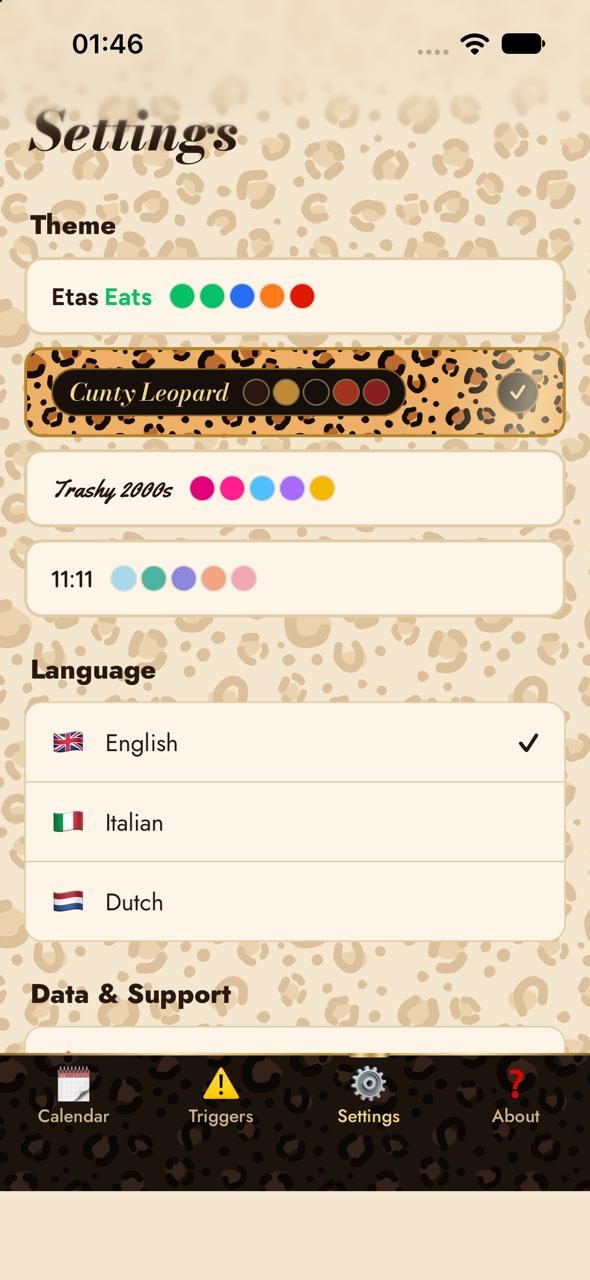
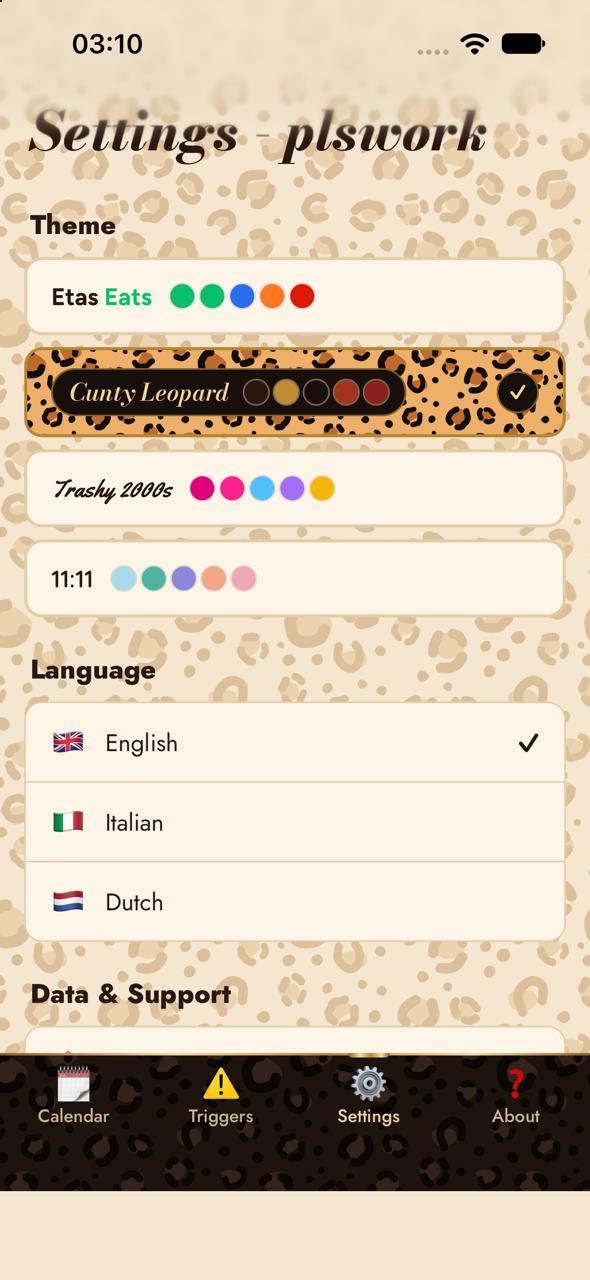
Dyllan: Nav Attempts

Changed region(s): [[0.7627, 0.25, 0.9763, 0.3438], [0.4881, 0.0625, 0.8237, 0.125], [0.1525, 0.0, 0.2441, 0.0625]]

diff --git a/src/App.tsx b/src/App.tsx
@@ -82,19 +82,17 @@ function App() {
           <Sparkles stars={BG_SPARKLES} color="#FFFFFF" big />
         </div>
       )}
-      {/* Safety net for the home-indicator strip: a fixed inset-0 layer (reaches the
-          true bottom) whose gradient paints only the bottom safe-area, in the active
-          nav's colour. The nav covers it when the layout is correct; if iOS ever
-          shorts the height, this fills the gap so the nav never looks like it floats. */}
-      <div
-        aria-hidden="true"
-        className="pointer-events-none fixed inset-0"
-        style={{
-          zIndex: -1,
-          background:
-            'linear-gradient(to top, var(--nav-bottom-fill) env(safe-area-inset-bottom), transparent env(safe-area-inset-bottom))',
-        }}
-      />
+      {/* Safety net for the home-indicator strip: a bottom-anchored inner element
+          (absolute bottom-0 inside a full-screen fixed layer) painted in the active
+          nav colour, so the strip under the nav is never a bare/cream gap. The nav
+          covers it when the layout is correct; if iOS shorts the height, this fills
+          the gap. Uses env() as a height (well supported), not a gradient stop. */}
+      <div aria-hidden="true" className="pointer-events-none fixed inset-0" style={{ zIndex: -1 }}>
+        <div
+          className="absolute inset-x-0 bottom-0"
+          style={{ height: 'env(safe-area-inset-bottom)', background: 'var(--color-nav-bg)' }}
+        />
+      </div>
       {/* min-h-0 lets the active view own its own vertical scroll. */}
       <main className="min-h-0 flex-1 overflow-hidden">
         {tab === 'calendar' && <CalendarView />}

diff --git a/src/index.css b/src/index.css
@@ -74,9 +74,6 @@ textarea::placeholder {
 
 :root {
   color-scheme: light;
-  /* Colour used to paint the home-indicator strip under the nav (set per theme by
-     applyTheme to the active nav background); transparent until then. */
-  --nav-bottom-fill: transparent;
   /* Pre-JS fallbacks for the string-valued treatment tokens (default theme).
      applyTheme overrides these on :root before first paint. */
   --shadow-card: 0 1px 2px rgba(0, 0, 0, 0.04), 0 4px 14px rgba(0, 0, 0, 0.06);
@@ -434,7 +431,10 @@ body {
 
 body {
   margin: 0;
-  background-color: var(--color-app-bg, #fff8f3);
+  /* The page canvas shows through in the home-indicator strip on iOS standalone, so
+     paint it the active nav colour (not the app bg) - this fills that strip when the
+     fixed layout stops at the safe viewport. On flat themes nav bg == app bg. */
+  background-color: var(--color-nav-bg, #fff8f3);
   -webkit-font-smoothing: antialiased;
   font-family: var(
     --app-font,

diff --git a/src/lib/theme.ts b/src/lib/theme.ts
@@ -570,9 +570,6 @@ export function applyTheme(id: ThemeId): void {
   root.style.setProperty('--app-font', theme.font)
   root.style.setProperty('--app-font-display', theme.fontDisplay ?? theme.font)
   root.style.setProperty('--app-font-display-style', theme.fontDisplayStyle ?? 'normal')
-  // Colour for the home-indicator strip under the nav (safety net in App.tsx). The
-  // nav's solid ground colour blends with its print/velour where those apply.
-  root.style.setProperty('--nav-bottom-fill', theme.palette.navBg)
 }
 
 // Persisted theme choice (localStorage; falls back to default if unavailable).

diff --git a/src/views/SettingsView.tsx b/src/views/SettingsView.tsx
@@ -42,7 +42,7 @@ export function SettingsView() {
     >
       <HeartWatermark />
       <h1 className="font-display relative shrink-0 px-1 py-2 text-4xl font-extrabold text-text-primary">
-        Settings - plswork
+        Settings - bg:nav-bg
       </h1>
 
       <div className="min-h-0 flex-1 overflow-y-auto pb-6">
